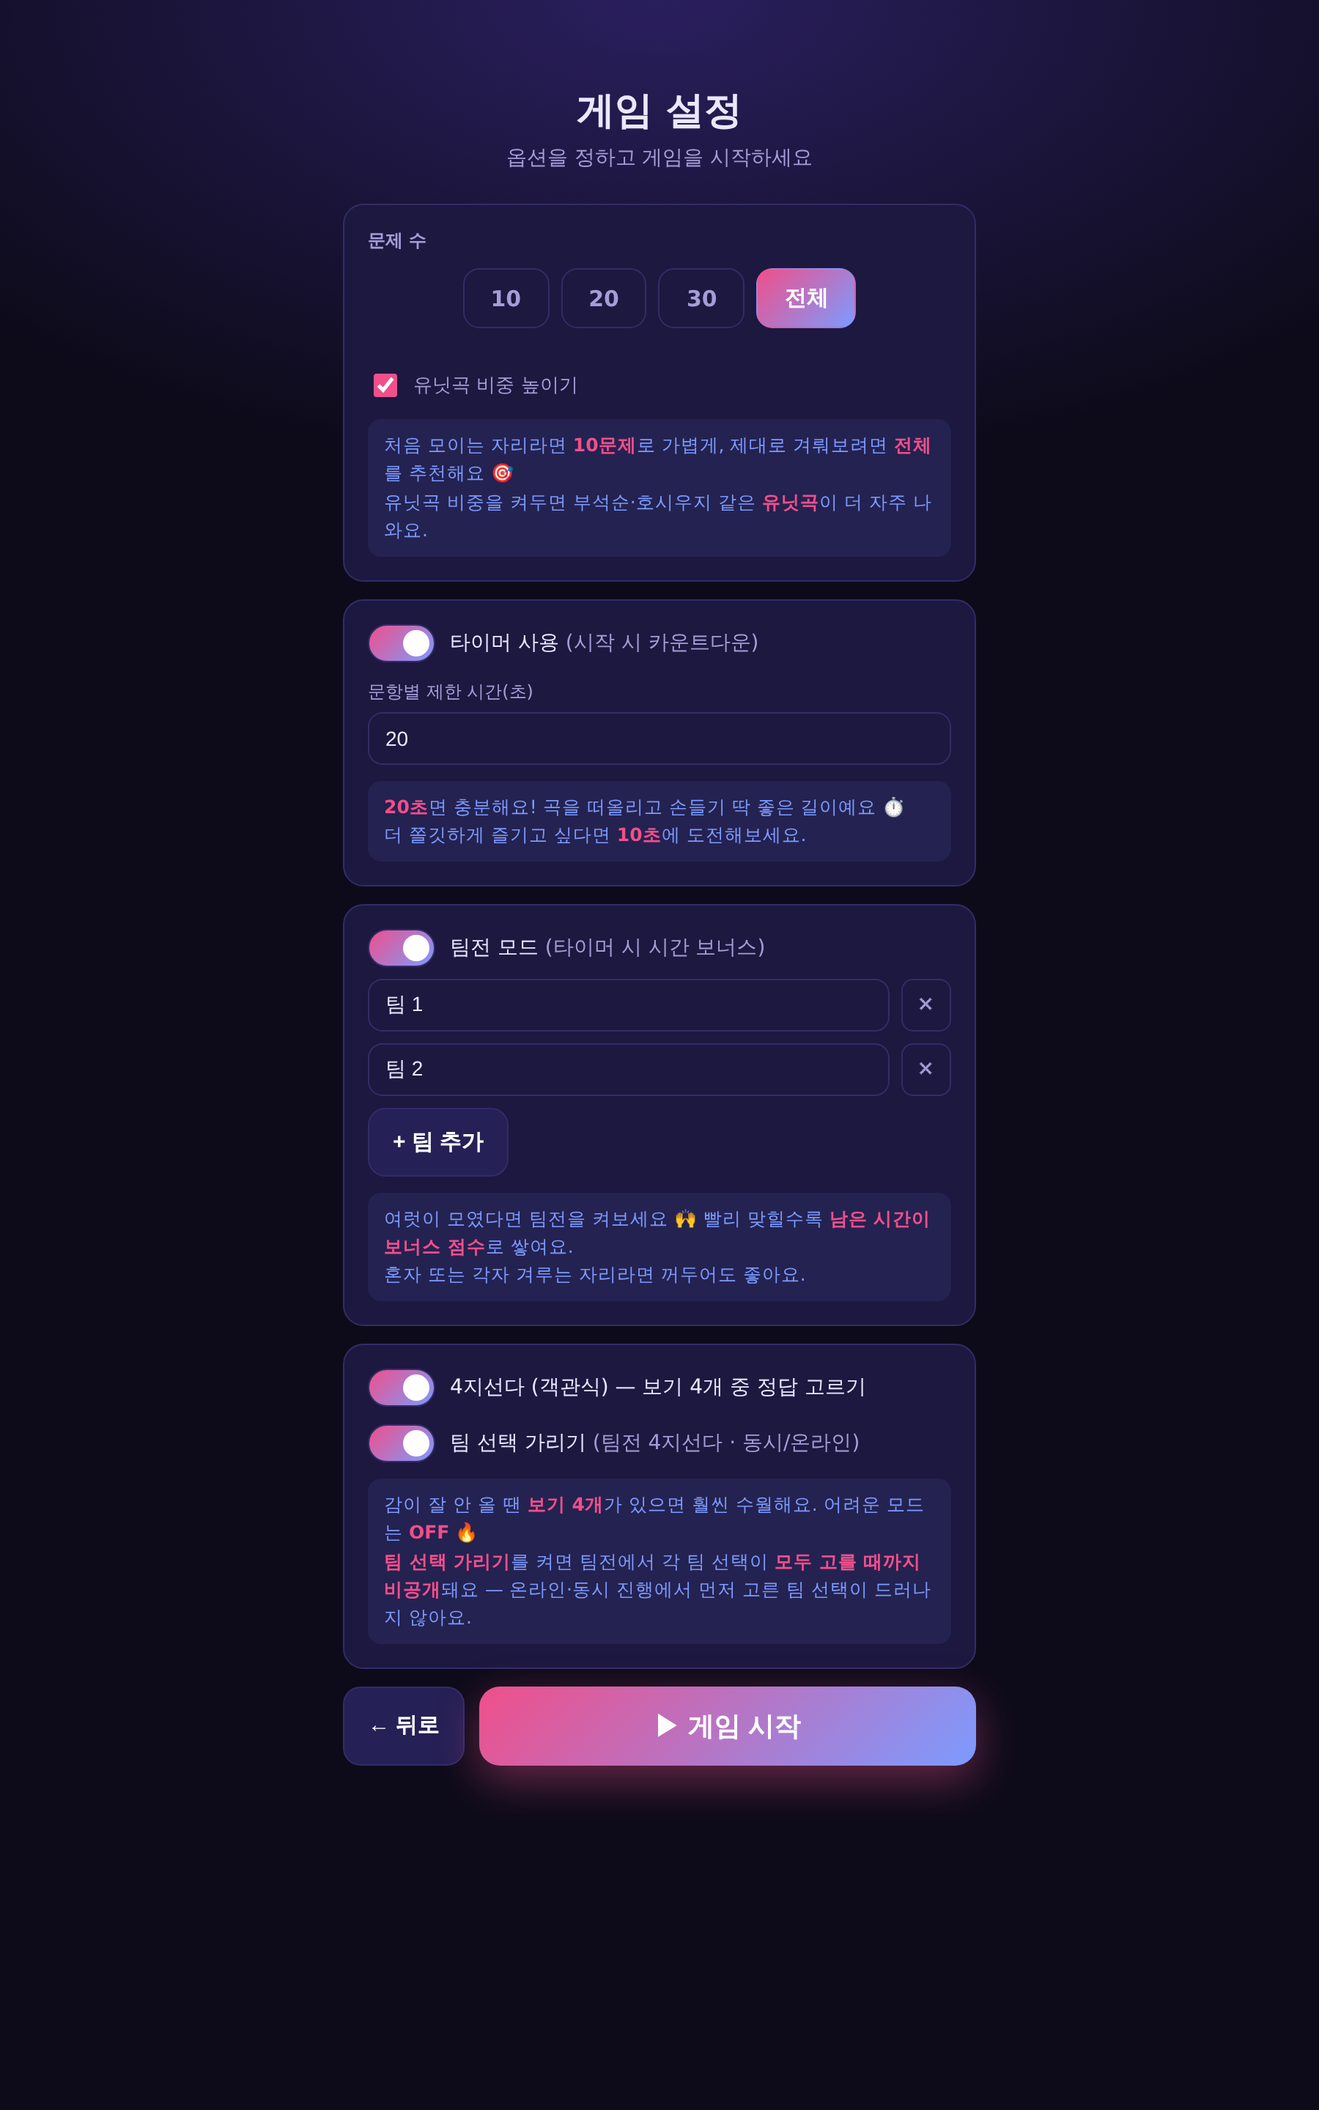
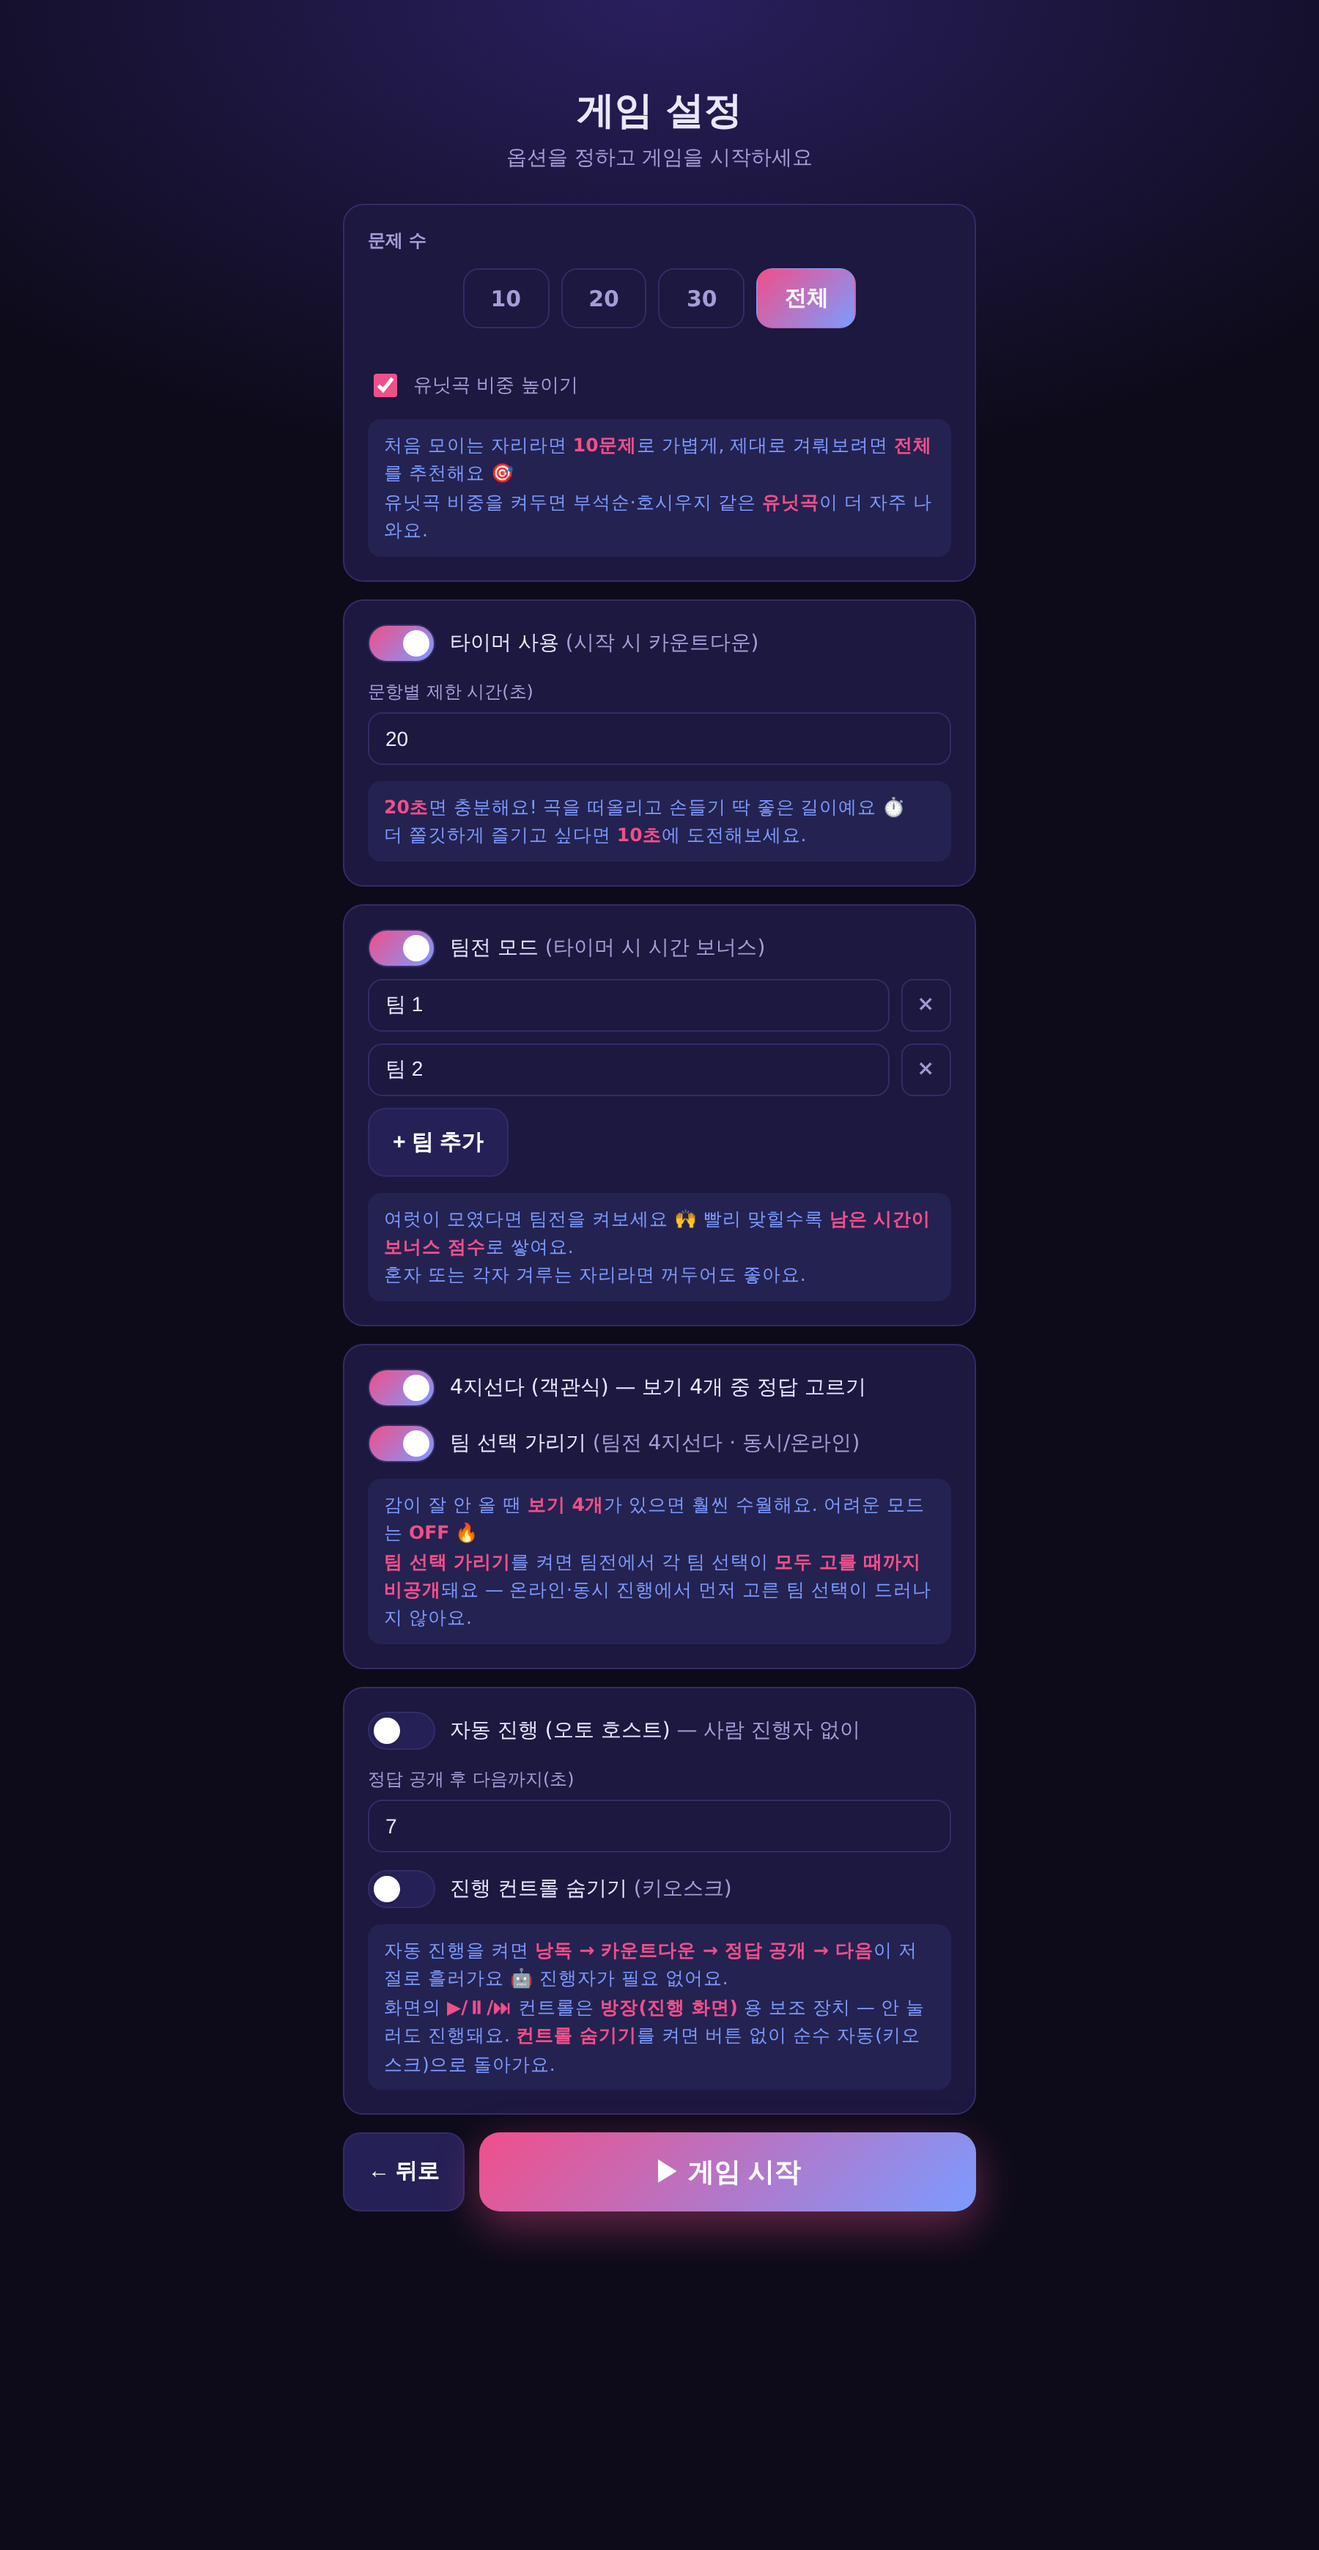
feat: 자동 진행(오토 호스트) 모드 — 사람 진행자 없이 자동 구동
- config.autoHost(기본 OFF): 낭독→응답 카운트다운→자동 정답공개→(4지선다)자동채점→감상 후 자동 다음
- 진행 컨트롤 ▶/⏸/⏭ (방장/진행 화면용 보조 · 안 눌러도 진행), 마지막 뒤 결과 탭 자동 이동
- '진행 컨트롤 숨기기'(autoHideControls) 토글 → 버튼 없는 키오스크 모드
- 정답 공개 후 다음까지 간격(autoInterval, 기본 7초) 설정
- 게임 화면 벗어나면 자동 예약 정지, 첫 시작 탭 1회만 필요(브라우저 자동재생 정책)
- 방장 전용 권한은 온라인 방 모드 도입 시 방장 기기 노출로 완성 예정(문서 명시)
- svt-data.json rev 갱신, 운영 가이드·README·CHANGELOG·설정 스크린샷 갱신
- 회귀 테스트(무클릭 자동진행·일시정지·컨트롤 숨김) → Playwright 68항목 통과, 콘솔 에러 0

Claude-Session: https://claude.ai/code/session_01BoVUxZZ7QKP6hKgrZ25vGv

Changed region(s): [[0.2489, 0.0312, 0.7467, 0.875], [0.4978, 0.0625, 0.6533, 0.1562]]

diff --git a/index.html b/index.html
@@ -205,6 +205,10 @@
   .mc-turn{margin-top:14px;font-size:14px;font-weight:700;text-align:center;color:var(--serene);background:rgba(124,143,255,.12);border-radius:11px;padding:11px}
   .mc-turn b{color:var(--rose);font-weight:900}
   .mc-turn.done{color:var(--txt);background:var(--panel2)}
+  .auto-bar{display:flex;gap:8px;align-items:center;margin-top:12px;background:rgba(124,143,255,.1);border:1px solid var(--line);border-radius:11px;padding:8px 10px}
+  .auto-btn{background:var(--panel);border:1px solid var(--line);color:var(--txt);border-radius:9px;padding:9px 13px;font-weight:800;font-size:13px;cursor:pointer;font-family:inherit}
+  .auto-btn:hover{border-color:var(--serene)}
+  .auto-status{margin-left:auto;font-size:13px;font-weight:700;color:var(--serene)}
   @media(max-width:560px){.mc-options{grid-template-columns:1fr}}
 
   /* ---- 힌트 ---- */
@@ -335,6 +339,20 @@
       <div class="setup-tip">감이 잘 안 올 땐 <b>보기 4개</b>가 있으면 훨씬 수월해요. 어려운 모드는 <b>OFF</b> 🔥<br><b>팀 선택 가리기</b>를 켜면 팀전에서 각 팀 선택이 <b>모두 고를 때까지 비공개</b>돼요 — 온라인·동시 진행에서 먼저 고른 팀 선택이 드러나지 않아요.</div>
     </div>
 
+    <div class="setup-card">
+      <div class="toggle-row" style="margin-top:0">
+        <label class="switch"><input type="checkbox" id="c-autohost" /><span class="slider"></span></label>
+        <span style="font-size:14px">자동 진행 (오토 호스트) <span style="color:var(--muted)">— 사람 진행자 없이</span></span>
+      </div>
+      <label class="hint" style="display:block;margin:10px 0 4px">정답 공개 후 다음까지(초)</label>
+      <input class="num-input" type="number" id="c-autointerval" min="2" max="60" value="7" />
+      <div class="toggle-row" style="margin-top:12px">
+        <label class="switch"><input type="checkbox" id="c-autohide" /><span class="slider"></span></label>
+        <span style="font-size:14px">진행 컨트롤 숨기기 <span style="color:var(--muted)">(키오스크)</span></span>
+      </div>
+      <div class="setup-tip">자동 진행을 켜면 <b>낭독 → 카운트다운 → 정답 공개 → 다음</b>이 저절로 흘러가요 🤖 진행자가 필요 없어요.<br>화면의 <b>▶/⏸/⏭</b> 컨트롤은 <b>방장(진행 화면)</b> 용 보조 장치 — 안 눌러도 진행돼요. <b>컨트롤 숨기기</b>를 켜면 버튼 없이 순수 자동(키오스크)으로 돌아가요.</div>
+    </div>
+
     <div class="setup-actions">
       <button class="btn btn-ghost" id="setup-back">← 뒤로</button>
       <button class="intro-start" id="setup-start" style="flex:1;padding:15px">▶ 게임 시작</button>
@@ -408,6 +426,12 @@
         <button class="btn btn-play" id="g-play">▶ 가사 낭독</button>
         <button class="btn btn-stop" id="g-stopread" title="멈춤">⏹</button>
         <button class="btn btn-reveal" id="g-reveal">정답 공개</button>
+      </div>
+
+      <div class="auto-bar" id="g-auto-bar" style="display:none">
+        <button class="auto-btn" id="g-auto-toggle">⏸ 일시정지</button>
+        <button class="auto-btn" id="g-auto-skip">⏭ 다음</button>
+        <span class="auto-status" id="g-auto-status">자동 진행 중</span>
       </div>
 
       <div class="answer" id="g-answer">
@@ -693,7 +717,8 @@ const DEFAULT_CONTENT = {
 };
 
 const DEFAULT_CONFIG = {
-  timerOn:true, timerSec:20, teamMode:false, teamNames:["팀 1","팀 2"], mc:true, teamBlind:true
+  timerOn:true, timerSec:20, teamMode:false, teamNames:["팀 1","팀 2"], mc:true, teamBlind:true,
+  autoHost:false, autoHideControls:false, autoInterval:7
 };
 
 /* 힌트용 앨범 정보 (곡 id → 발매연도·앨범종류) · 확신 있는 곡만 수록(없으면 해당 힌트 생략) */
@@ -903,6 +928,7 @@ document.querySelectorAll("nav.tabs button").forEach(b=>{
     b.classList.add("active");
     document.getElementById("view-"+b.dataset.view).classList.add("active");
     stopTTS(); stopTimer();
+    if(b.dataset.view!=="game") autoStopTimers();   // 게임 화면 벗어나면 자동 진행 예약 정지
     if(b.dataset.view==="result") renderResult();
     if(b.dataset.view==="settings") renderSettings();
     if(b.dataset.view==="game") renderGame();
@@ -1119,6 +1145,7 @@ function renderGame(){
   resetTimer(); if(config.timerOn && gameActive) startTimer();   // 게임 시작·문항 전환 시 타이머 시작
   resetHints(); buildMcOptions(); resetTeamRound(); renderMc();
   scheduleAutoTTS();   // 카드 전환 시 2초 뒤 자동 낭독
+  autoStartQuestion();   // 오토 호스트: 응답창 후 자동 공개 예약 + 컨트롤 바 갱신
 }
 
 function renderTeamBoard(){
@@ -1187,6 +1214,7 @@ function showAnswer(){
   stopTimer();
   els.answer.classList.add("show");
   els.answer.scrollIntoView({behavior:"smooth",block:"nearest"});
+  autoAfterReveal();   // 오토 호스트: 공개 후 다음 문항 자동 예약
 }
 
 function renderAwardRow(){
@@ -1265,6 +1293,50 @@ function startTimer(){
 }
 function stopTimer(){ if(timerHandle){ clearInterval(timerHandle); timerHandle=null; } }
 
+/* ---- 오토 호스트(자동 진행) ---- */
+let autoRun=false, autoAnsT=null, autoNextT=null, autoCdI=null, autoCdLeft=0;
+function autoStopTimers(){ if(autoAnsT){clearTimeout(autoAnsT);autoAnsT=null;} if(autoNextT){clearTimeout(autoNextT);autoNextT=null;} if(autoCdI){clearInterval(autoCdI);autoCdI=null;} }
+function answerShown(){ return els.answer.classList.contains("show"); }
+function autoBarVisible(){ return config.autoHost && !config.autoHideControls; }
+function updateAutoBar(){
+  const bar=document.getElementById("g-auto-bar");
+  if(!bar) return;
+  bar.style.display=(autoBarVisible() && gameActive)?"flex":"none";
+  const tg=document.getElementById("g-auto-toggle");
+  const st=document.getElementById("g-auto-status");
+  if(tg) tg.textContent=autoRun?"⏸ 일시정지":"▶ 재생";
+  if(st) st.textContent = !autoRun ? "일시정지됨" : (autoCdI ? `다음까지 ${Math.max(0,autoCdLeft)}초` : "자동 진행 중");
+}
+function autoStartQuestion(){   // 문항 표시 직후: 응답창 후 자동 공개 예약
+  autoStopTimers();
+  if(!(config.autoHost && autoRun && gameActive) || order.length===0) { updateAutoBar(); return; }
+  const winSec=(config.timerOn?config.timerSec:12)+1;   // TTS 낭독 리드타임 +1초
+  autoAnsT=setTimeout(()=>{ autoAnsT=null; autoReveal(); }, winSec*1000);
+  updateAutoBar();
+}
+function autoReveal(){
+  if(answerShown()) return;
+  if(config.mc && config.teamMode && !teamRoundDone && order.length) finalizeTeamRound();
+  else showAnswer();   // 두 경로 모두 끝에서 autoAfterReveal() 호출
+}
+function autoAfterReveal(){   // showAnswer 끝에서 호출 — 자동 모드면 다음 예약
+  if(!(config.autoHost && autoRun && gameActive)) { updateAutoBar(); return; }
+  autoStopTimers();
+  const sec=Math.max(2, config.autoInterval||7);
+  autoCdLeft=sec;
+  autoCdI=setInterval(()=>{ autoCdLeft--; updateAutoBar(); if(autoCdLeft<=0){ clearInterval(autoCdI); autoCdI=null; } },1000);
+  autoNextT=setTimeout(()=>{ autoNextT=null; autoAdvance(); }, sec*1000);
+  updateAutoBar();
+}
+function autoAdvance(){
+  autoStopTimers();
+  if(pos<order.length-1){ next(); }   // next→renderGame→autoStartQuestion 로 순환
+  else { autoRun=false; document.querySelector('nav.tabs button[data-view="result"]').click(); }
+}
+function autoPause(){ autoRun=false; autoStopTimers(); stopTimer(); stopTTS(); updateAutoBar(); }
+function autoResume(){ autoRun=true; if(answerShown()) autoAfterReveal(); else autoStartQuestion(); updateAutoBar(); }
+function autoSkip(){ if(!answerShown()) autoReveal(); else autoAdvance(); }
+
 /* ---- 채점 / 이동 ---- */
 function mark(kind){
   if(order.length===0) return;
@@ -1284,6 +1356,8 @@ document.getElementById("g-reveal").addEventListener("click",()=>{
   if(config.mc && config.teamMode && !teamRoundDone && order.length) finalizeTeamRound();
   else showAnswer();
 });
+document.getElementById("g-auto-toggle").addEventListener("click",()=>{ if(autoRun) autoPause(); else autoResume(); });
+document.getElementById("g-auto-skip").addEventListener("click",autoSkip);
 document.getElementById("g-hint").addEventListener("click",revealHint);
 document.getElementById("g-video-reload").addEventListener("click",reloadVideo);
 document.getElementById("g-mark-correct").addEventListener("click",()=>mark("correct"));
@@ -1416,6 +1490,9 @@ document.getElementById("c-timersec").addEventListener("input",e=>{ config.timer
 document.getElementById("c-team").addEventListener("change",e=>{ config.teamMode=e.target.checked; saveState(); });
 document.getElementById("c-mc").addEventListener("change",e=>{ config.mc=e.target.checked; saveState(); });
 document.getElementById("c-teamblind").addEventListener("change",e=>{ config.teamBlind=e.target.checked; saveState(); });
+document.getElementById("c-autohost").addEventListener("change",e=>{ config.autoHost=e.target.checked; saveState(); });
+document.getElementById("c-autohide").addEventListener("change",e=>{ config.autoHideControls=e.target.checked; saveState(); });
+document.getElementById("c-autointerval").addEventListener("input",e=>{ config.autoInterval=Math.max(2,Math.min(60,parseInt(e.target.value,10)||7)); saveState(); });
 
 /* ---- 내보내기 / 불러오기 ---- */
 const dlgJson=document.getElementById("dlg-json");
@@ -1512,6 +1589,9 @@ function renderSetup(){
   document.getElementById("c-team").checked=!!config.teamMode;
   document.getElementById("c-mc").checked=!!config.mc;
   document.getElementById("c-teamblind").checked=config.teamBlind!==false;
+  document.getElementById("c-autohost").checked=!!config.autoHost;
+  document.getElementById("c-autohide").checked=!!config.autoHideControls;
+  document.getElementById("c-autointerval").value=config.autoInterval||7;
   renderTeamEditor();
 }
 (function(){
@@ -1530,6 +1610,7 @@ function renderSetup(){
     quizCount = n>0 ? n : null;
     quizUnitBoost = document.getElementById("intro-unit").checked;
     gameActive=true;
+    autoRun=!!config.autoHost;               // 오토 호스트면 자동 진행 시작
     startNewGame(true); renderGame();       // 자동 셔플 1회 + (타이머 켜짐 시) 타이머 시작
     setup.style.display="none";
   }

diff --git a/docs/OPERATION_GUIDE.md b/docs/OPERATION_GUIDE.md
@@ -38,6 +38,12 @@
   - **온라인·동시 진행**: 켜두면 **모든 팀이 고를 때까지 각 팀 선택을 비공개**로 유지 → 먼저 고른 팀 선택이 다른 팀에 드러나지 않습니다.
   - ⚠ 이 앱은 단일 화면 기반이라 각 팀이 개별 기기에서 실시간 동시 입력하는 진짜 멀티플레이는 지원하지 않습니다(별도 서버 필요). 가리기 모드는 **한 화면으로 진행할 때 선택이 노출되지 않도록** 하는 용도입니다.
 
+**자동 진행(오토 호스트)** — 사람 진행자 없이 게임을 스스로 굴립니다.
+- 켜면 **낭독 → 카운트다운 → 정답 공개 → (4지선다) 자동 채점 → 다음**이 저절로 반복됩니다.
+- 화면의 **▶/⏸/⏭** 컨트롤은 **방장(진행 화면)** 용 보조 장치 — 안 눌러도 진행되며, 중간에 멈추거나 건너뛸 때만 씁니다.
+- **진행 컨트롤 숨기기**(키오스크)를 켜면 버튼 없이 순수 자동으로만 돕니다.
+- ⚠ 브라우저 정책상 **첫 「게임 시작」 탭 1회**는 필요합니다(그 뒤로는 자동). 팀별 점수 자동 집계까지 원하면 각 팀의 답 입력(순차 탭 또는 향후 온라인 방)이 있어야 합니다.
+
 > 게임 옵션은 **기본 설정 화면**에 모여 있고, 설정 탭에는 **곡·가사 편집**과 **저장 슬롯**만 남아 있습니다.
 
 ---

diff --git a/CHANGELOG.md b/CHANGELOG.md
@@ -2,6 +2,15 @@
 
 이 프로젝트의 주요 변경 사항을 기록합니다.
 
+## [1.8.0] — 자동 진행(오토 호스트) 모드
+- 사람 진행자 없이 게임을 자동 진행하는 **오토 호스트** 추가(`config.autoHost`, 기본 OFF):
+  · 상태 머신: 낭독 → 응답 카운트다운 → 자동 정답 공개 → (4지선다) 자동 채점 → 감상 후 자동 다음
+  · 진행 컨트롤 **▶/⏸/⏭** (방장/진행 화면용 보조 — 안 눌러도 진행), 마지막 문항 뒤 결과 탭 자동 이동
+  · **진행 컨트롤 숨기기**(`autoHideControls`) 토글 → 버튼 없는 키오스크 모드
+  · 정답 공개 후 다음까지 간격(`autoInterval`, 기본 7초) 조절
+  · 브라우저 자동재생 정책상 첫 시작 탭 1회만 필요(그 뒤 자동)
+- 회귀 테스트 추가(무클릭 자동 진행·일시정지·컨트롤 숨김) → Playwright 68항목 통과
+
 ## [1.7.0] — 팀 선택 가리기(비공개) 옵션
 - 팀전 4지선다에 **팀 선택 가리기** 토글 추가(기본 ON):
   · **온라인·동시 진행**: 모든 팀이 고를 때까지 각 팀 선택을 비공개 → 먼저 고른 팀 선택이 노출되지 않음

diff --git a/README.md b/README.md
@@ -106,6 +106,7 @@ https://alfira0526.github.io/SVT_Lyrics/
 | ⏱ **타이머** | 문항별 제한 시간(초 설정), 0 도달 시 알림 |
 | 👥 **팀전 모드** | 팀별 점수판·턴 관리. **팀전+4지선다**는 각 팀이 차례대로 보기를 골라 **자동 채점**(정답 팀마다 +점수·순서 순환), 4지선다 끄면 맞힌 팀 버튼 수동 채점. 타이머와 함께 쓰면 **시간 보너스** 가산 |
 | 🙈 **팀 선택 가리기** | 팀전 4지선다에서 **모든 팀이 고를 때까지 각 팀 선택을 비공개**(기본 ON). 온라인·동시 진행 시 먼저 고른 팀 선택이 노출되지 않음. 오프라인은 꺼서 즉시 표시 가능 |
+| 🤖 **자동 진행 (오토 호스트)** | 사람 진행자 없이 **낭독→카운트다운→정답 공개→다음**을 자동 반복. ▶/⏸/⏭ 컨트롤은 방장용 보조(안 눌러도 진행), **컨트롤 숨기기**로 키오스크 모드. 첫 시작 탭 1회만 필요 |
 | 🏆 **결과·등급** | 정답률에 따라 입덕 준비생 🐣 → 라이트 팬 🌱 → 찐팬 ⭐ → 코어 팬 💎 → 칼럿 인증 🏆 |
 
 ---
